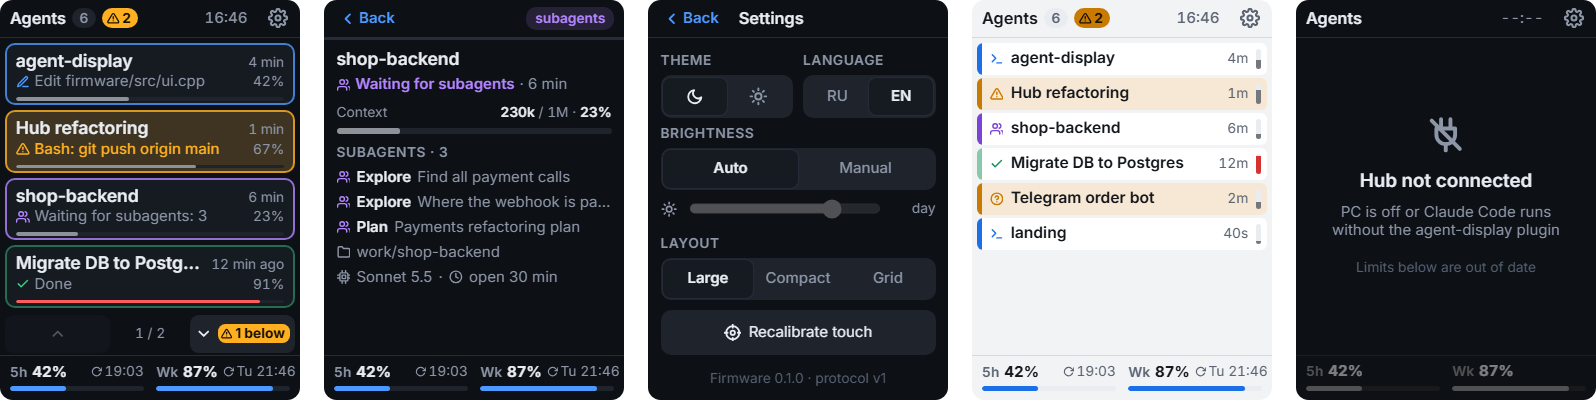
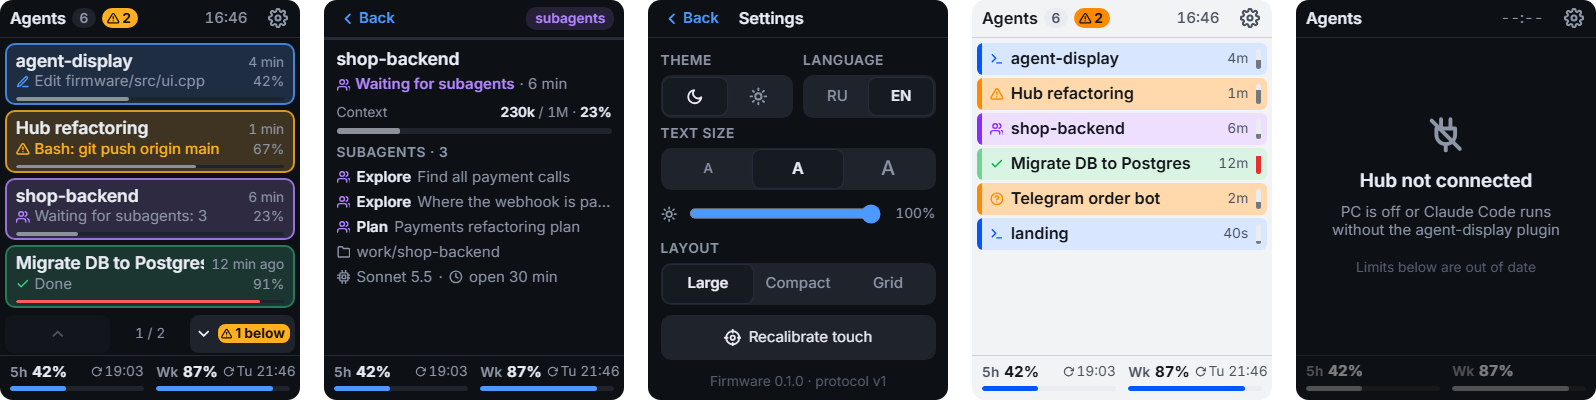
feat(design): 15% status fill on cards, random empty-screen phrase

diff --git a/design/index.html b/design/index.html
@@ -72,7 +72,7 @@ body.cap { background:transparent; }
              --work:#0057FF; --done:#00B347; --wait:#FF8A00; --subs:#8B2CFF; --idle:#808894; --error:#E5302F;
              --wait-ink:#A85A00; --frame:100%; --frame-dim:84%; --tint:33%; }
 /* text size setting: name / text / small px and item heights */
-.scr     { --fn:14px; --ft:12px; --fs:11px; --ch:50px; --rh:26px; --gh:50px; --fill:0%; }
+.scr     { --fn:14px; --ft:12px; --fs:11px; --ch:50px; --rh:26px; --gh:50px; --fill:15%; }
 .scr.z13 { --fn:13px; --ft:11px; --fs:10px; --ch:48px; --rh:24px; --gh:48px; }
 .scr.z16 { --fn:16px; --ft:13px; --fs:12px; --ch:56px; --rh:30px; --gh:56px; }
 .mq { overflow:hidden; white-space:nowrap; min-width:0; }
@@ -130,7 +130,7 @@ body.cap { background:transparent; }
 .cell .r2 { display:flex; align-items:center; gap:3px; color:var(--mut); font-size:var(--fs); height:calc(var(--fs) + 4px); }
 .st-wait.cell .r2 { color:var(--wait-ink); font-weight:600; }
 .cell .bar { margin-top:5px; }
-/* card fill tinted with the status color (--fill: 0% = frame only); the blinking "waits for you" stays stronger */
+/* card fill: 15% of the status color; the blinking "waits for you" stays stronger */
 .scr .card, .scr .cell, .scr .row { background:color-mix(in srgb, var(--c) var(--fill), var(--panel)); }
 .scr .st-wait.card, .scr .st-wait.cell, .scr .st-wait.row { background:color-mix(in srgb, var(--wait) var(--tint), var(--panel)); }
 .boff .st-wait.card, .boff .st-wait.cell, .boff .st-wait.row { background:color-mix(in srgb, var(--wait) var(--fill), var(--panel)); }
@@ -228,10 +228,6 @@ body.cap { background:transparent; }
       <div class="box">
         <h3>Ситуация</h3>
         <div class="chips" id="scen"></div>
-      </div>
-      <div class="box">
-        <h3>Заливка карточек цветом статуса</h3>
-        <div class="chips" id="fill"></div>
       </div>
       <div class="box" id="simbox">
         <h3>Симуляция</h3>
@@ -376,7 +372,6 @@ function marquee() {
 }
 
 /* list layouts: item height (depends on text size) + gap → how many fit into the list area (254 px, or 220 with the pager) */
-let FILL = 0;   // % of status color in card backgrounds — being chosen, see the gallery
 const SIZES = { 13: { ch: 48, rh: 24, gh: 48 }, 14: { ch: 50, rh: 26, gh: 50 }, 16: { ch: 56, rh: 30, gh: 56 } };
 const LAYOUTS = {
   large: {
@@ -444,6 +439,7 @@ class Board {
   render() {
     const u = this.ui;
     let body;
+    this.emptyNow = false;
     if (u.screen === 'calib') body = this.calibHTML();
     else if (u.screen === 'settings') body = this.settingsHTML();
     else if (this.lost) body = this.lostHTML();
@@ -453,7 +449,8 @@ class Board {
       if (!s || (!this.static && Date.now() - u.detAt > 30000)) { u.screen = 'main'; return this.render(); }
       body = this.detailsHTML(s);
     } else body = this.snap.sessions.length ? this.mainHTML() : this.emptyHTML();
-    this.el.innerHTML = `<div class="scr ${u.theme} z${u.size} ${this.blink ? '' : 'boff'}" style="--fill:${u.fill ?? FILL}%">${body}</div>`;
+    this.wasEmpty = this.emptyNow;
+    this.el.innerHTML = `<div class="scr ${u.theme} z${u.size} ${this.blink ? '' : 'boff'}"">${body}</div>`;
     this.applyBright();
   }
   tick() { this.blink = !this.blink; if (this.ui.screen !== 'settings' && this.ui.screen !== 'calib') this.render(); }
@@ -540,8 +537,11 @@ class Board {
       <button class="cross" data-a="cross" style="left:${x - 20}px;top:${y - 20}px"></button></div>`;
   }
   emptyHTML() {
-    const T = this.T;
-    return this.hdr() + `<div class="empty">${icon('coffee', 30)}<div class="ph">${T.phrases[Math.floor(Date.now() / 12000) % T.phrases.length]}</div>
+    const T = this.T, n = T.phrases.length;
+    // a new random phrase every time the screen becomes empty, never the same one twice in a row
+    if (!this.wasEmpty) this.phrase = (this.phrase ?? -1) < 0 ? Math.floor(Math.random() * n) : (this.phrase + 1 + Math.floor(Math.random() * (n - 1))) % n;
+    this.emptyNow = true;
+    return this.hdr() + `<div class="empty">${icon('coffee', 30)}<div class="ph">${T.phrases[this.phrase]}</div>
       <div class="sub">${T.noAgents}</div></div>` + this.ftr();
   }
   lostHTML() {
@@ -777,13 +777,7 @@ else {
     SIMCTL.find(c => c[0] === b.dataset.k)[2](); drawSimCtl(); pump();   // events go out immediately, not on the next tick
   });
 
-  const fills = [0, 6, 10, 15];
-  const drawFill = () => { $('#fill').innerHTML = fills.map(f => `<button data-f="${f}" class="${f === FILL ? 'on' : ''}">${f ? f + ' %' : 'Только рамка'}</button>`).join(''); };
-  $('#fill').addEventListener('click', e => { const b = e.target.closest('button'); if (b) { FILL = +b.dataset.f; drawFill(); live.render(); } });
-  drawFill();
-
   const GAL = [
-    ...['dark', 'light'].flatMap(theme => fills.map(f => [`Заливка ${f ? f + ' %' : '0 — только рамка'} · ${theme === 'dark' ? 'тёмная' : 'светлая'}`, 'demo', { theme, fill: f }])),
     ['Главный · Крупно', 'demo', {}], ['Главный · Компактно', 'many', { layout: 'compact' }], ['Главный · Сетка', 'demo', { layout: 'grid' }],
     ['Не влезли: ждущий ниже', 'many', {}], ['Подробности · субагенты', 'demo', { screen: 'details', sel: 'd3c2f5b8' }],
     ['Подробности · вопрос', 'demo', { screen: 'details', sel: 'd5e4b7da' }], ['Настройки', 'update', { screen: 'settings' }],

diff --git a/CLAUDE.md b/CLAUDE.md
@@ -182,12 +182,13 @@ IDEA/PhpStorm — Claude Code там тот же CLI, хуки работают 
 
 **Настройки** (маленькая кнопка-шестерёнка): тема «Тёмная / Светлая», язык интерфейса RU / EN,
 размер текста 13 / 14 / 16, яркость ползунком, раскладка, перекалибровка тача.
-Светлая тема — насыщенные цвета и непрозрачные рамки (на белом TN гасит бледное; подобрано на плате). Весь текст интерфейса живёт на
+Светлая тема — насыщенные цвета и непрозрачные рамки (на белом TN гасит бледное; подобрано на плате).
+Фон карточки — 15 % цвета статуса (выбрано из 0/6/10/15), ждущая — сильнее и мигает. Весь текст интерфейса живёт на
 плате (хаб шлёт только данные), поэтому язык — чисто настройка платы. Всё в NVS, переживает перезагрузку. Подсветку НЕ гасить и не убавлять сама по себе.
 
 **Пустые состояния**:
-- хаб на связи, агентов нет → по центру шутливая фраза из ротации (5–10 штук, например
-  «Не пора ли нам повайбкодить?»);
+- хаб на связи, агентов нет → по центру шутливая фраза (8 штук на язык, например
+  «Не пора ли нам повайбкодить?»): случайная при каждом появлении пустого экрана, не та же, что в прошлый раз;
 - хаб не подключён (комп выключен / плагин не работает) → отдельное сообщение;
 - лимиты: последние хранятся в NVS вместе со временем получения и `resets_at`.
   Хаб на связи и `resets_at` прошёл → «сброшен» (а не устаревшие 87%);
